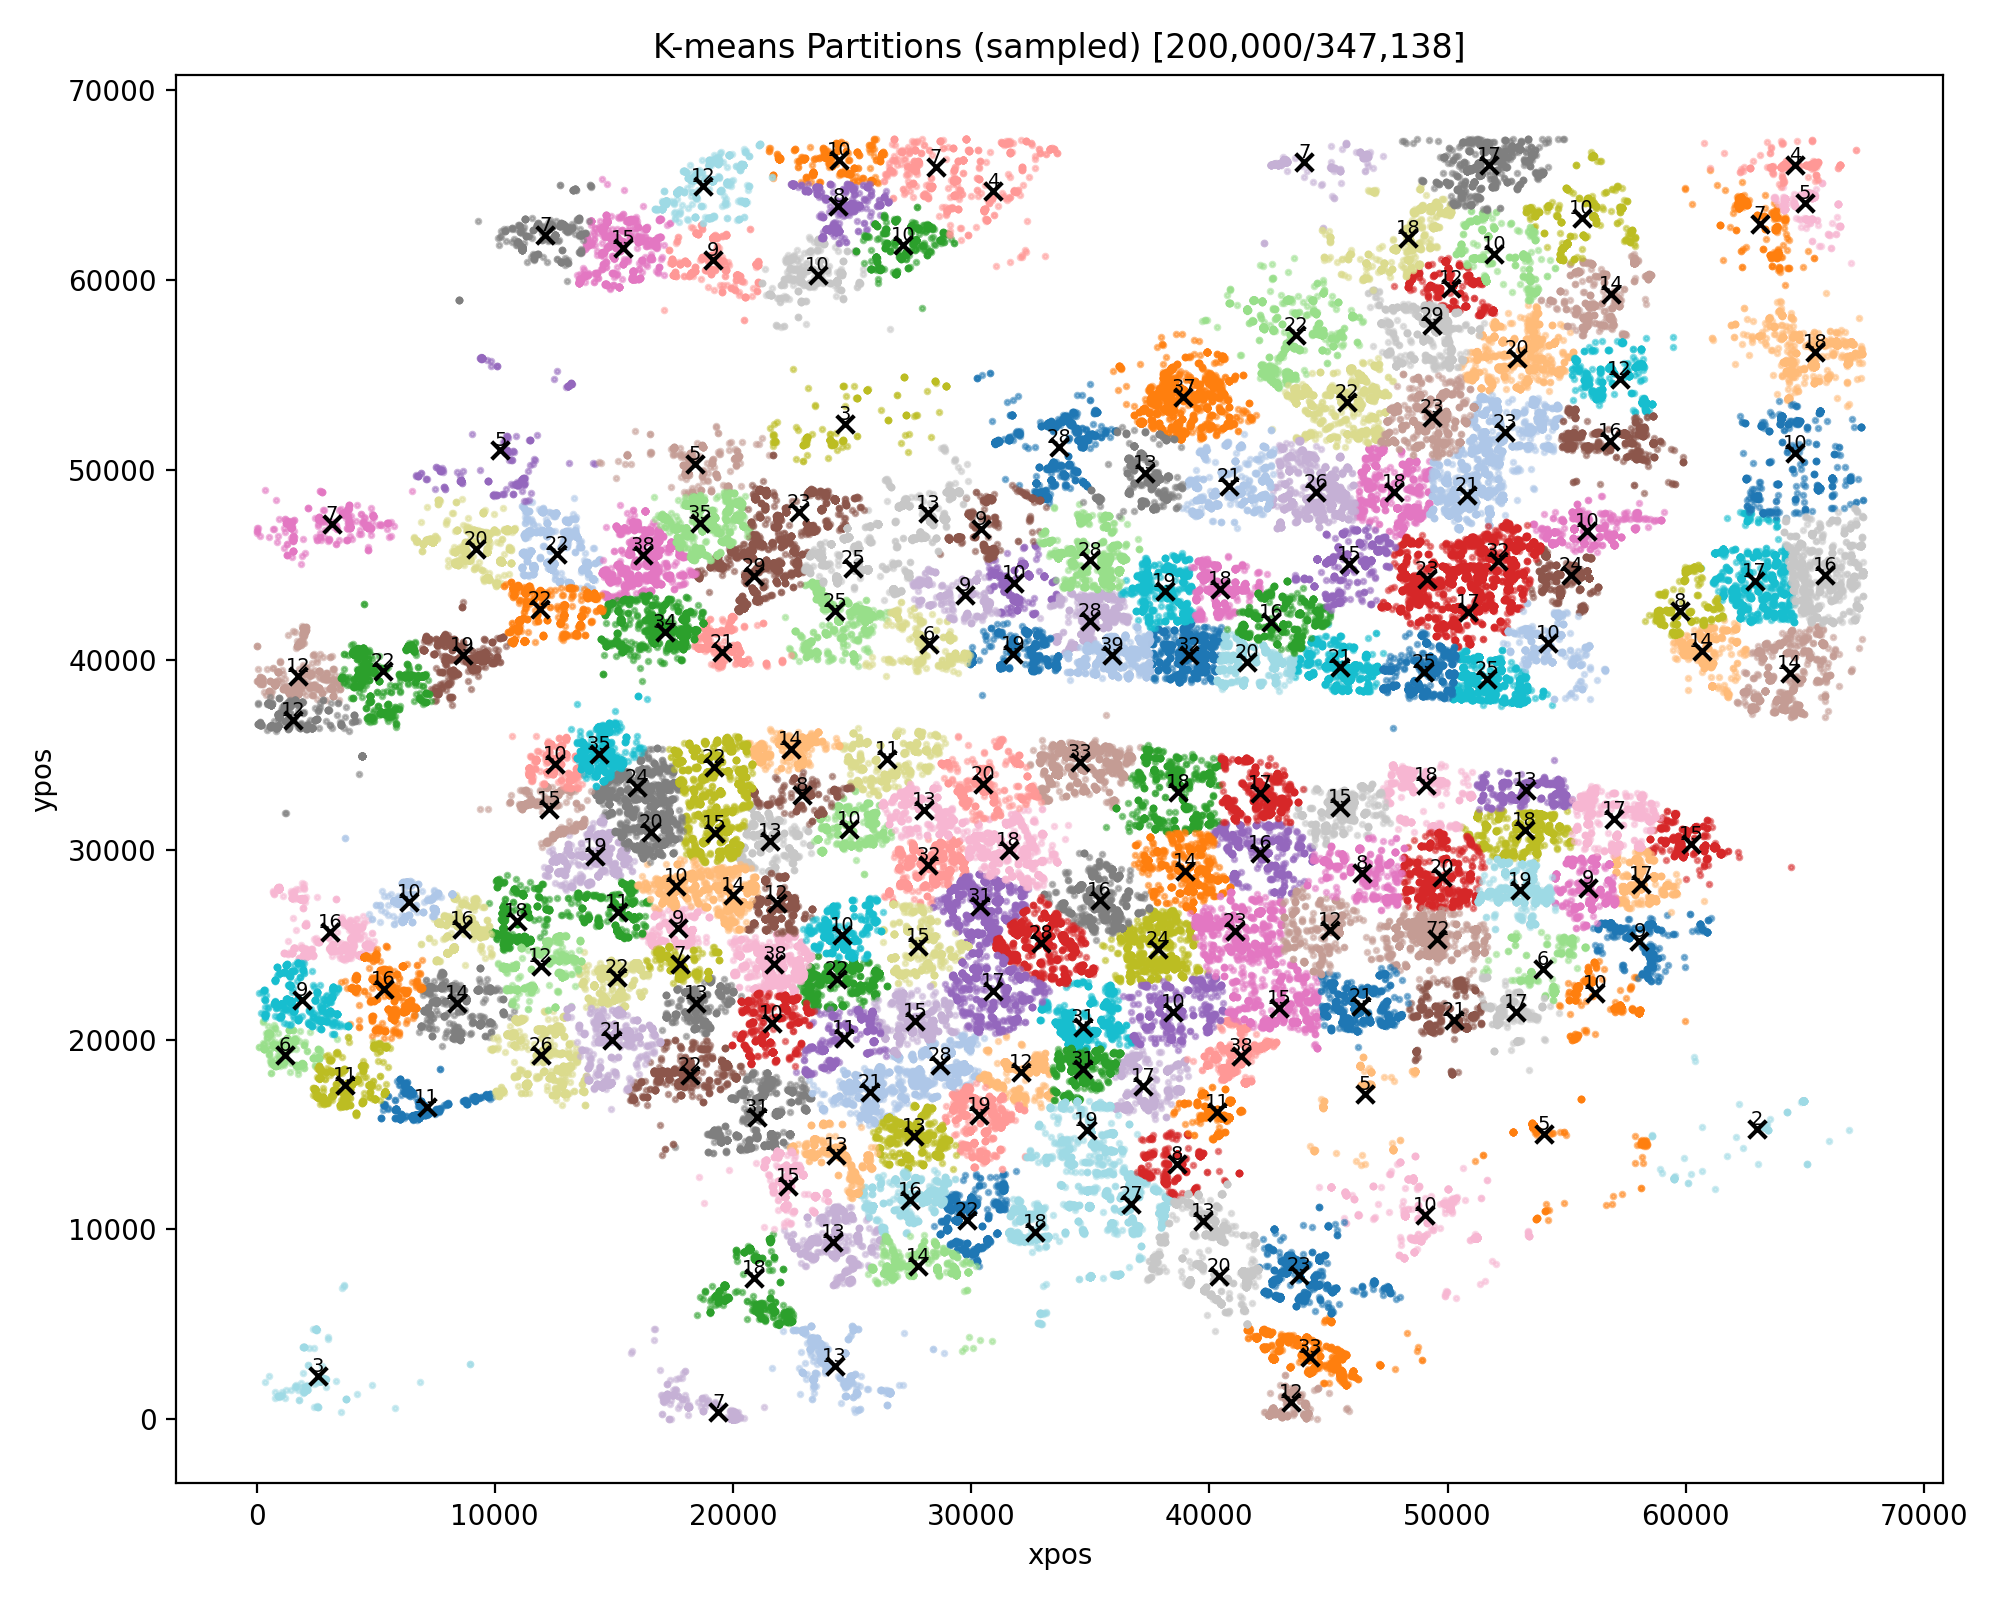
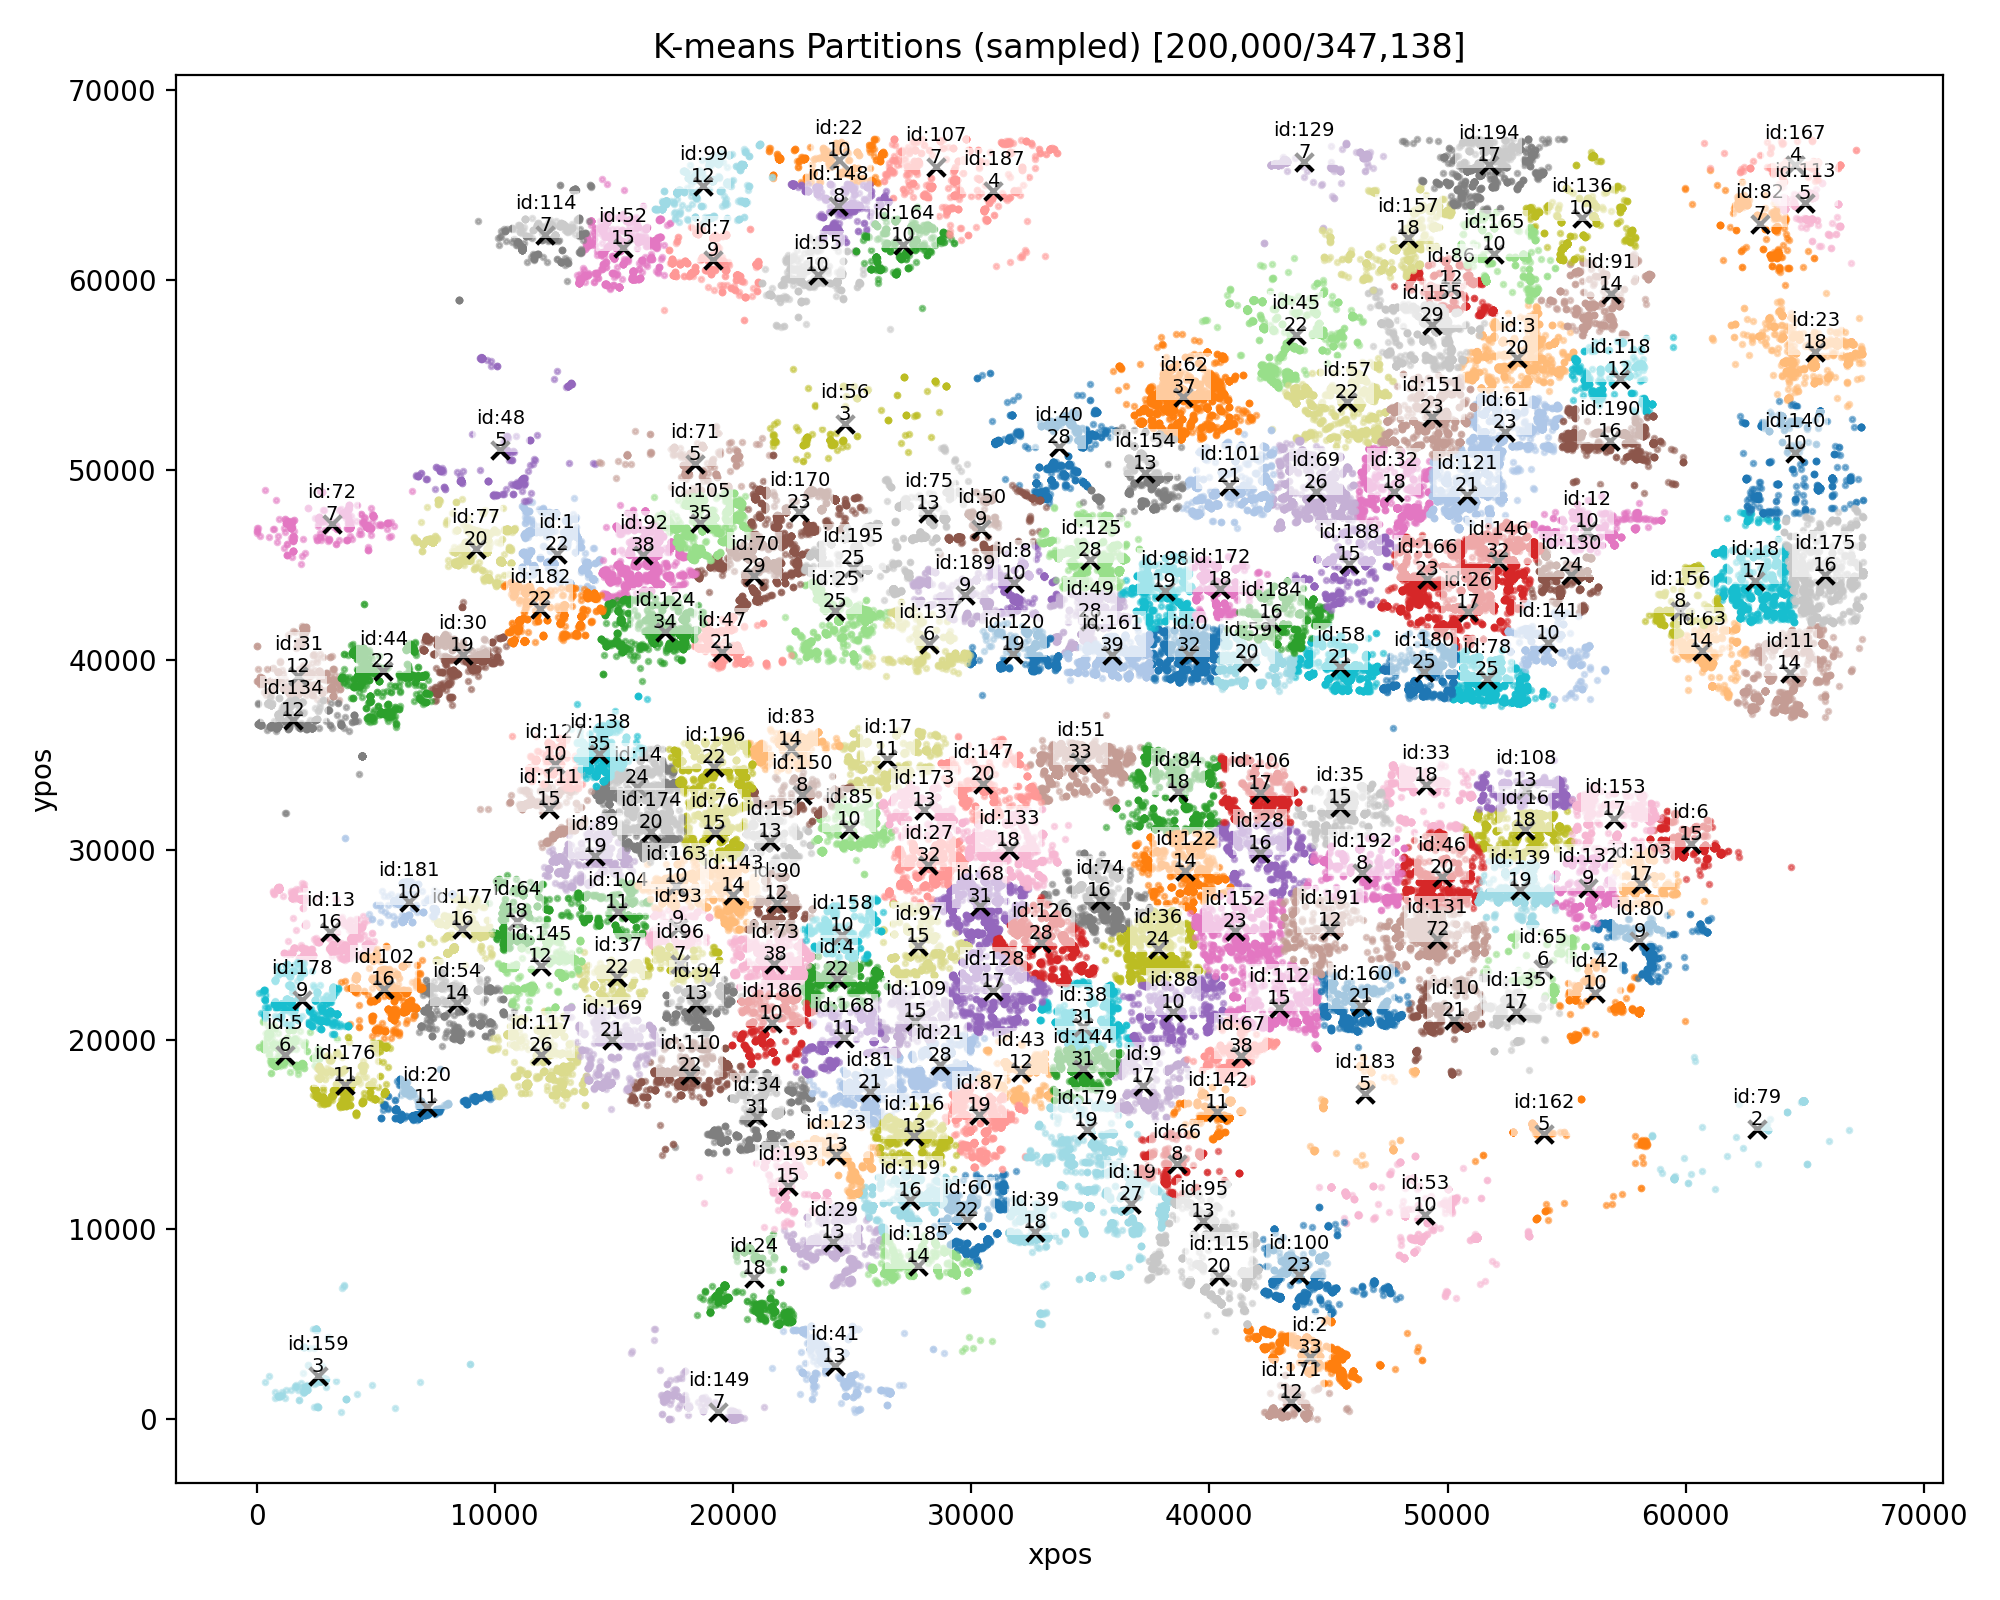
k-means 적용

diff --git a/graphnize/k-means.py b/graphnize/k-means.py
@@ -234,7 +234,8 @@ def plot_kmeans_partitions(X: np.ndarray, labels: np.ndarray, centroids: np.ndar
         plt.scatter(centroids[:, 0], centroids[:, 1], c='black', s=40, marker='x', linewidths=1.5)
         for i, (cx, cy) in enumerate(centroids):
             label_val = int(counts[i]) // 100
-            plt.text(cx, cy, f"{label_val}", fontsize=7, ha='center', va='bottom', color='black')
+            plt.text(cx, cy, f"id:{i}\n{label_val}", fontsize=7, ha='center', va='bottom', color='black',
+                     bbox=dict(facecolor='white', alpha=0.6, edgecolor='none', pad=1))
         plt.title('K-means Partitions (sampled)' + (f" [{Xp.shape[0]:,}/{Xv.shape[0]:,}]" if Xp.shape[0] != Xv.shape[0] else ""))
         plt.xlabel('xpos')
         plt.ylabel('ypos')
